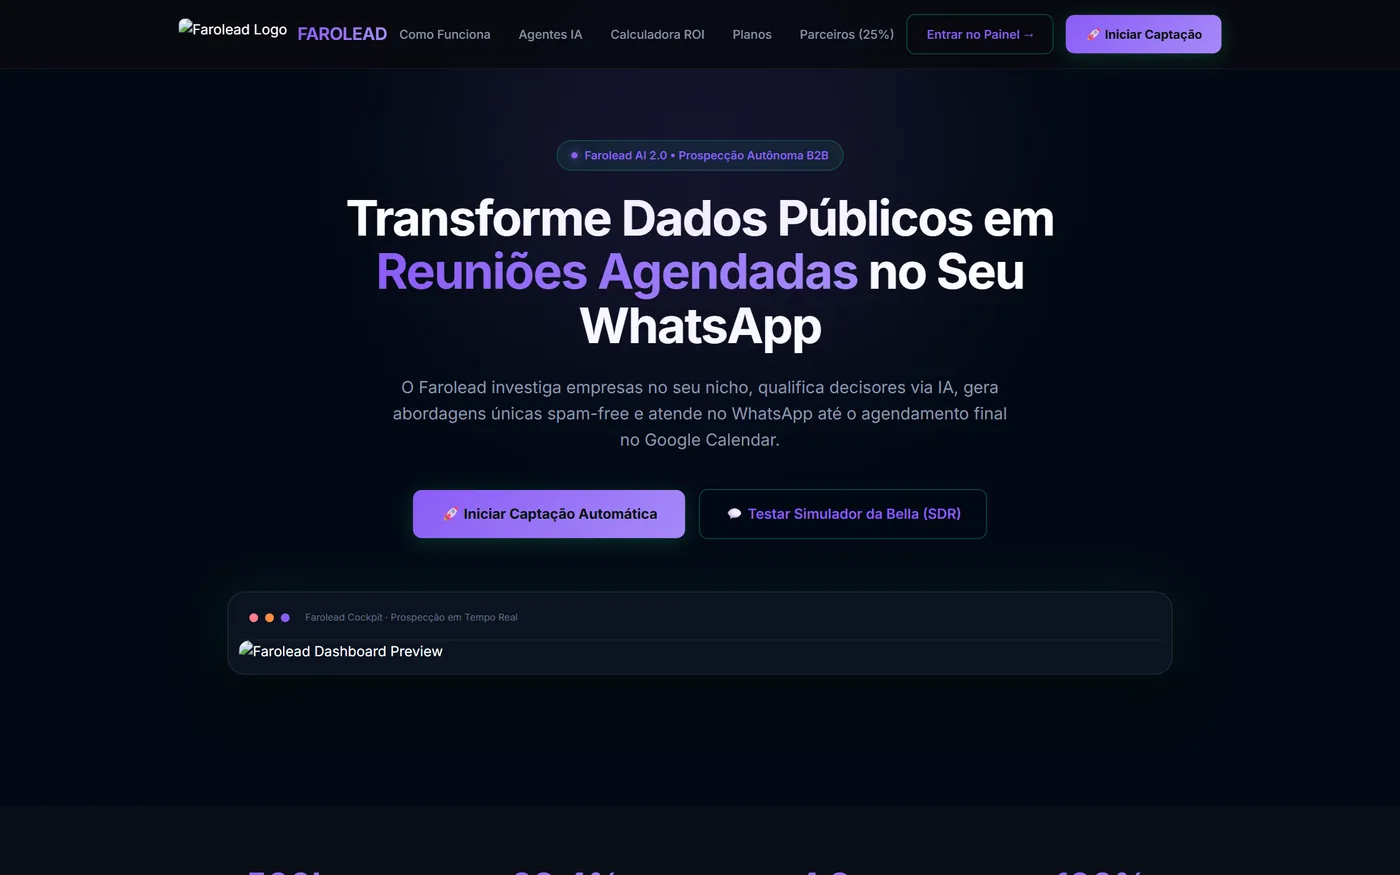
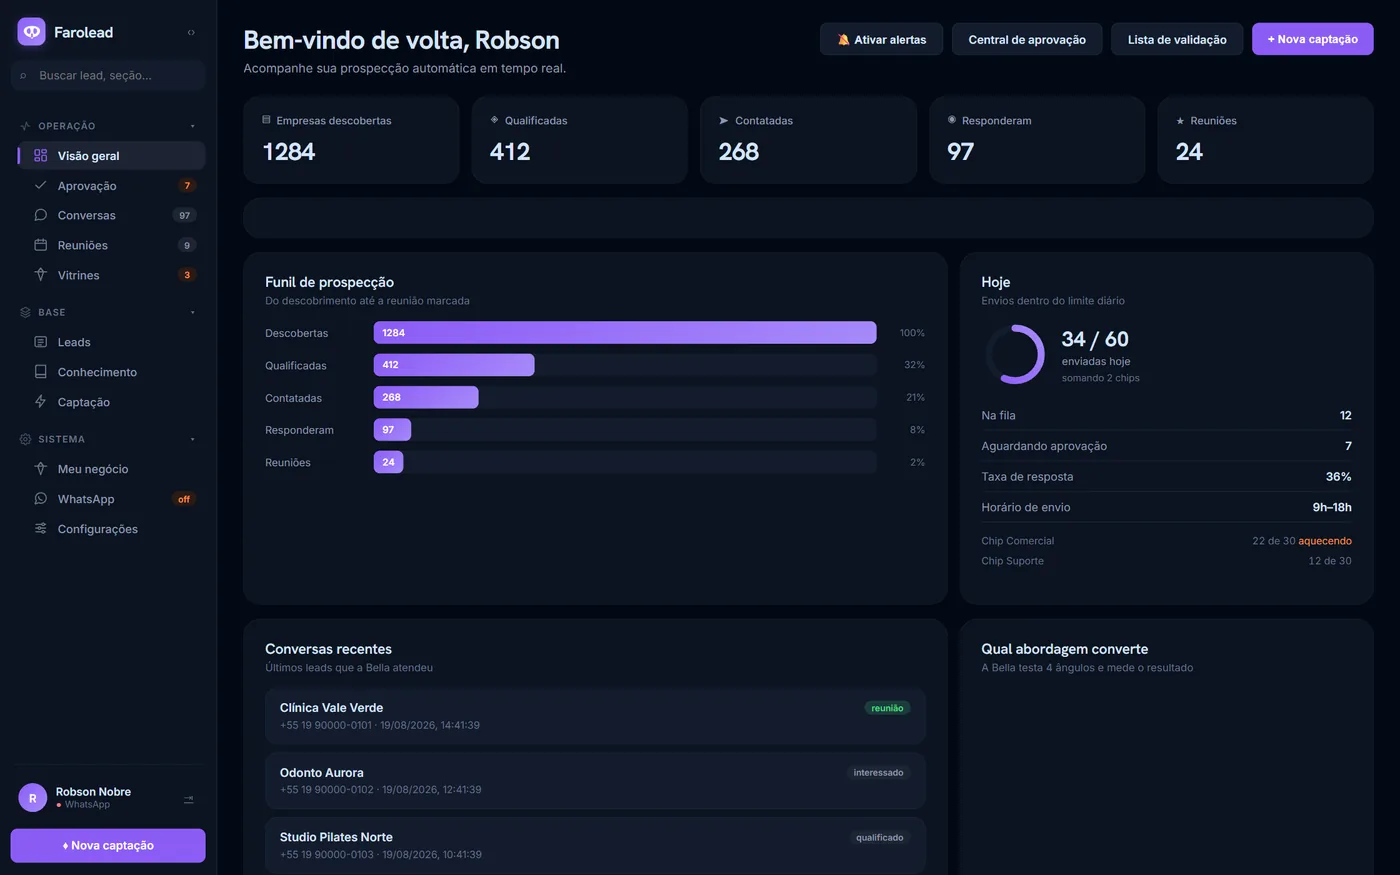
Troca as imagens do Farolead pelo interior da plataforma
A landing ainda nao esta pronta, entao o card passa a mostrar as telas
que importam: painel da operacao (funil, KPIs, envios do dia), tela de
captacao (Receita Federal, mapas e Google Places) e central de
aprovacao (mensagens escritas pela IA com angulo e nota).

O painel foi renderizado com dados de demonstracao ficticios servidos
via intercepcao de rede: empresas inventadas e telefones no padrao
reservado para documentacao. O Postgres de producao nao foi acessado
em nenhum momento.

Ajusta a descricao para citar a aprovacao humana antes do disparo, que
e o que as telas mostram.

diff --git a/index.html b/index.html
@@ -249,10 +249,10 @@
                     </p>
                     <h3 class="work-title">Farolead</h3>
                     <p class="work-desc">
-                        Prospec&ccedil;&atilde;o B2B que roda sozinha: <strong>9 agentes especialistas</strong> varrem bases
-                        p&uacute;blicas, montam o dossi&ecirc; da empresa, pontuam a propens&atilde;o de compra e escrevem a
-                        abordagem. A <strong>Bella</strong> assume no WhatsApp, quebra obje&ccedil;&otilde;es e agenda direto
-                        no Google Calendar.
+                        Prospec&ccedil;&atilde;o B2B que roda sozinha: <strong>9 agentes especialistas</strong> varrem
+                        Receita Federal, mapas e Google Places, montam o dossi&ecirc; da empresa e escrevem a abordagem.
+                        Cada mensagem passa por <strong>aprova&ccedil;&atilde;o humana</strong> antes de sair &mdash; a&iacute; a
+                        <strong>Bella</strong> assume no WhatsApp e agenda direto no Google Calendar.
                     </p>
                     <div class="work-tech">
                         <span>TypeScript</span><span>Supabase</span><span>LLM</span><span>WhatsApp API</span><span>Google Places</span><span>Multi-Agent</span>
@@ -262,12 +262,12 @@
                 <div class="work-shot" data-shot data-interval="3700">
                     <div class="shot-bar">
                         <i></i><i></i><i></i>
-                        <span class="shot-url">farolead &mdash; prospec&ccedil;&atilde;o aut&ocirc;noma B2B</span>
+                        <span class="shot-url">farolead &mdash; painel da opera&ccedil;&atilde;o</span>
                     </div>
                     <div class="shot-frame">
-                        <img src="assets/opt/farolead-1.webp" alt="Landing do Farolead: dados p&uacute;blicos viram reuni&otilde;es agendadas no WhatsApp" loading="lazy" class="on">
-                        <img src="assets/opt/farolead-2.webp" alt="Fluxo de 4 passos do Farolead: Hunter, Dossi&ecirc;, Copywriter e SDR Bella" loading="lazy">
-                        <img src="assets/opt/farolead-3.webp" alt="Painel do Farolead com funil de prospec&ccedil;&atilde;o e vitrines" loading="lazy">
+                        <img src="assets/opt/farolead-1.webp" alt="Painel do Farolead: funil de prospec&ccedil;&atilde;o, empresas descobertas e envios do dia" loading="lazy" class="on">
+                        <img src="assets/opt/farolead-2.webp" alt="Tela de capta&ccedil;&atilde;o do Farolead com as fontes Receita Federal, Mapa e Google Places" loading="lazy">
+                        <img src="assets/opt/farolead-3.webp" alt="Central de aprova&ccedil;&atilde;o do Farolead: mensagens escritas pela IA com &acirc;ngulo e nota" loading="lazy">
                         <div class="shot-dots"><b class="on"></b><b></b><b></b></div>
                     </div>
                 </div>
